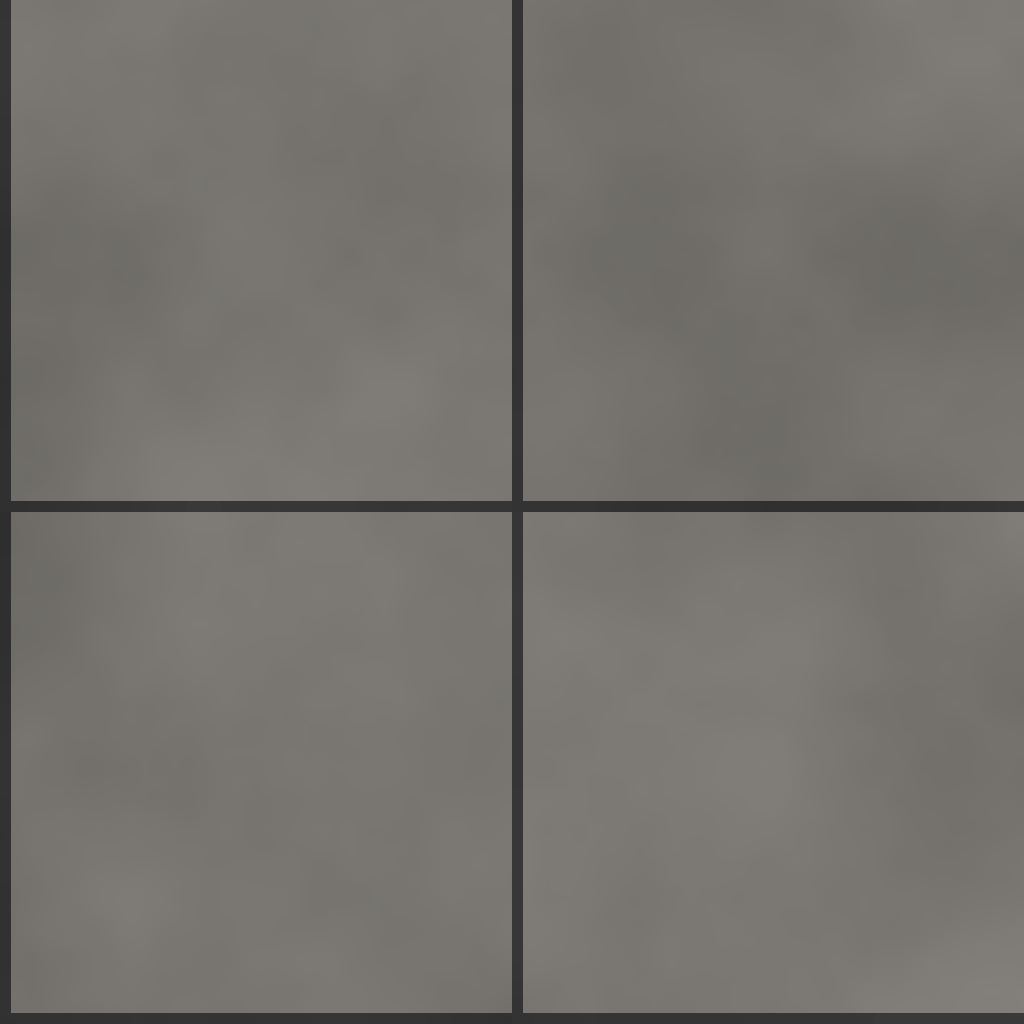
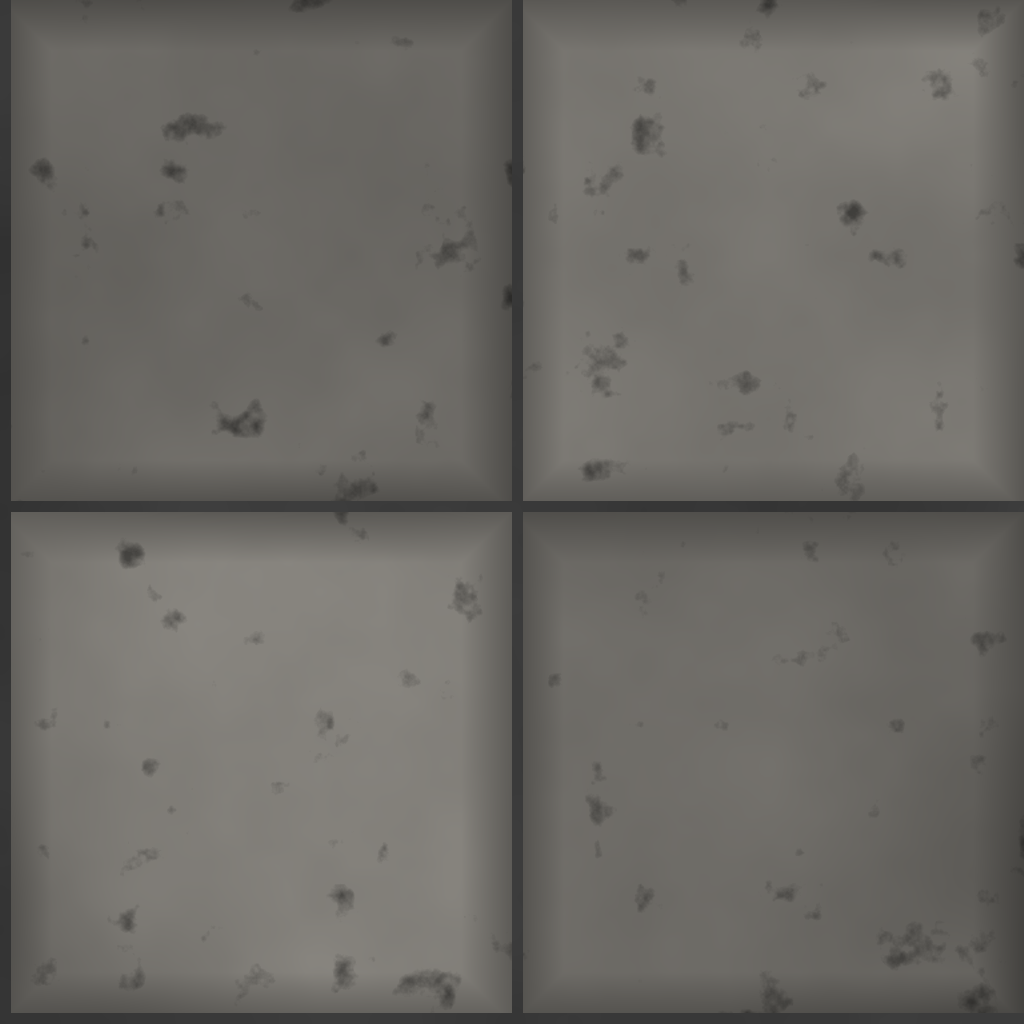
blender: pavement that has been walked on
The paving was four identical grey squares with a groove between them --
a floor tile from a game -- and it is the most prominent surface after
the road, on both sides of it in every view. paving() now gives each slab
its own shade, lets grime gather in the joints and along every slab's
edge where feet do not scuff it off (broken up by the grain, or it reads
as a bevel round each slab), lays broad damp patches across the surface,
and speckles it with grit and trodden-in gum. Previewed with the
Blender-free tool, then verified in the lit street: the pavement reads as
paving stones with dirty joints. PavingSlab.png regenerated.

diff --git a/tools/blender/zombie_street_textures.py b/tools/blender/zombie_street_textures.py
@@ -227,25 +227,61 @@ def tarmac(size=1024, seed=37):
 
 def paving(size=1024, seed=53):
     """Slabs, with a groove between them. Two across a 1.2 metre tile is a
-    slab of 600mm, which is the one a pavement is laid from."""
+    slab of 600mm, which is the one a pavement is laid from.
+
+    A pavement is not four identical slabs. Each is its own shade; grime
+    gathers in the joints and along every slab's edge where feet do not scuff
+    it off; broad patches lie damp and dark; and the surface is speckled with
+    grit and trodden-in gum. Four flat grey squares read as a floor tile in a
+    game, and no lighting could make them a street.
+    """
     rng = random.Random(seed)
     grain = _noise(rng, size, 5, 4)
+    damp = _noise(rng, size, 3, 2)        # broad damp and dirty patches
+    speck = _noise(rng, size, 6, 24)      # grit and trodden gum
     slabs = 2
     pitch = size / slabs
     groove = max(1.0, size / 96.0)
     field = numpy.zeros((size, size), dtype=numpy.float32)
     shade = numpy.zeros((size, size), dtype=numpy.float32)
+    edge = numpy.zeros((size, size), dtype=numpy.float32)
+    tones = {}
     for y in range(size):
         row = int(y / pitch)
         in_row = y % pitch
         for x in range(size):
             column = int(x / pitch)
             in_column = x % pitch
-            edge = (in_row < groove or in_column < groove)
-            field[y, x] = 1.0 if edge else 0.0
-            shade[y, x] = ((row * 7 + column * 13) % 5) * 0.012
-    rgb = _tint((0.46, 0.45, 0.43), (0.22, 0.22, 0.22), field)
-    rgb *= (0.86 + grain[:, :, None] * 0.28 + shade[:, :, None])
+            joint = (in_row < groove or in_column < groove)
+            field[y, x] = 1.0 if joint else 0.0
+            key = (row, column)
+            tone = tones.get(key)
+            if tone is None:
+                tone = rng.uniform(-0.11, 0.11)
+                tones[key] = tone
+            shade[y, x] = tone
+            # How far into the slab from its nearest edge, as a fraction of
+            # the slab; grime falls off away from the joint.
+            edge[y, x] = min(in_row, in_column, pitch - in_row, pitch - in_column) / pitch
+
+    base = numpy.array((0.46, 0.45, 0.43), dtype=numpy.float32)
+    groove_colour = numpy.array((0.22, 0.22, 0.22), dtype=numpy.float32)
+    rgb = base[None, None, :] * (1.0 + shade[:, :, None])
+    rgb *= (0.86 + grain[:, :, None] * 0.28)
+
+    # Grime along every slab edge, damp patches across the whole surface, and
+    # a scatter of dark specks.
+    # Broken up by the grain, or it reads as a bevel around every slab.
+    edge_grime = numpy.clip(1.0 - edge / 0.10, 0.0, 1.0) * 0.26 * (0.45 + grain * 1.1)
+    dampness = numpy.clip((0.50 - damp) * 1.6, 0.0, 1.0) * 0.30
+    specks = numpy.clip((speck - 0.70) * 6.0, 0.0, 1.0) * 0.45
+    rgb *= (1.0 - edge_grime[:, :, None])
+    rgb *= (1.0 - dampness[:, :, None])
+    rgb *= (1.0 - specks[:, :, None])
+
+    # The joint itself, uneven and dirtier where the surface is damp.
+    joint_rgb = groove_colour[None, None, :] * (1.0 + (grain[:, :, None] - 0.5) * 0.4 - dampness[:, :, None] * 0.3)
+    rgb = rgb * (1.0 - field[:, :, None]) + joint_rgb * field[:, :, None]
     return _image("PavingSlab", size, _rgba(rgb))
 
 
